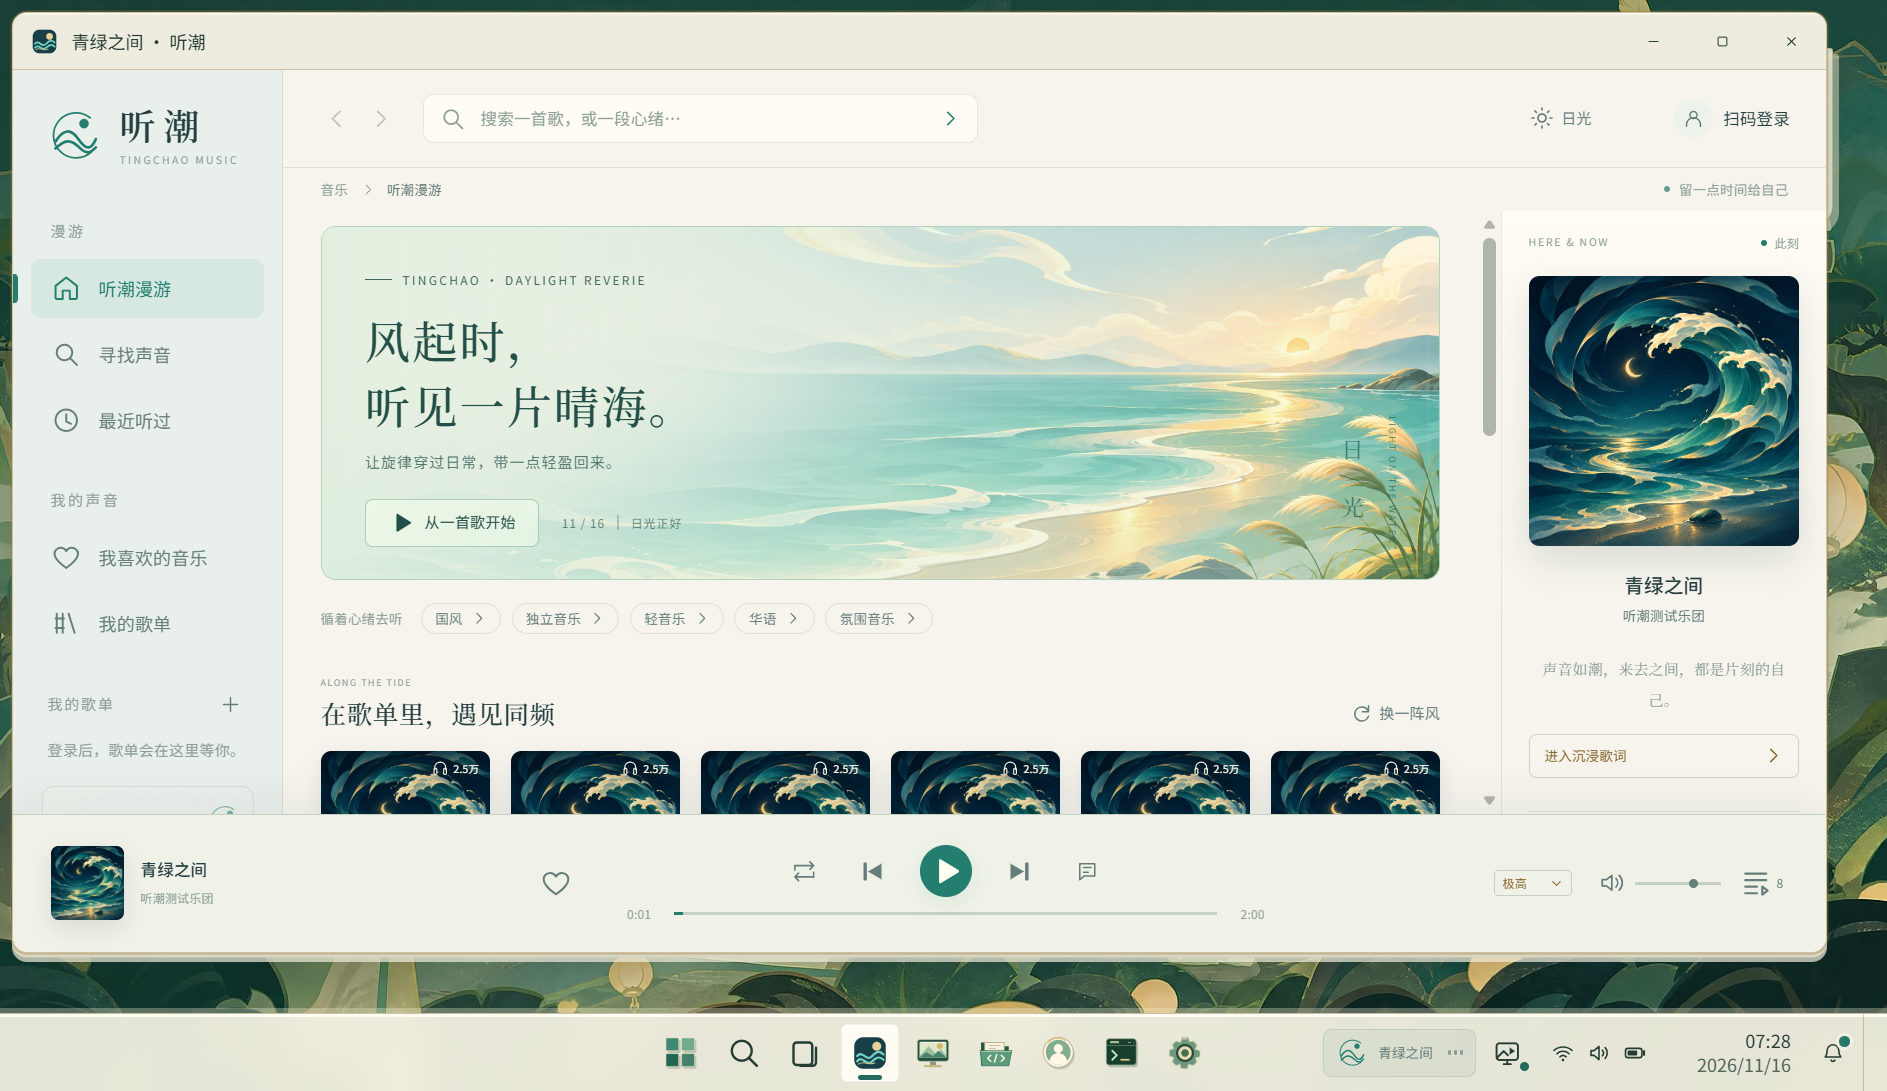
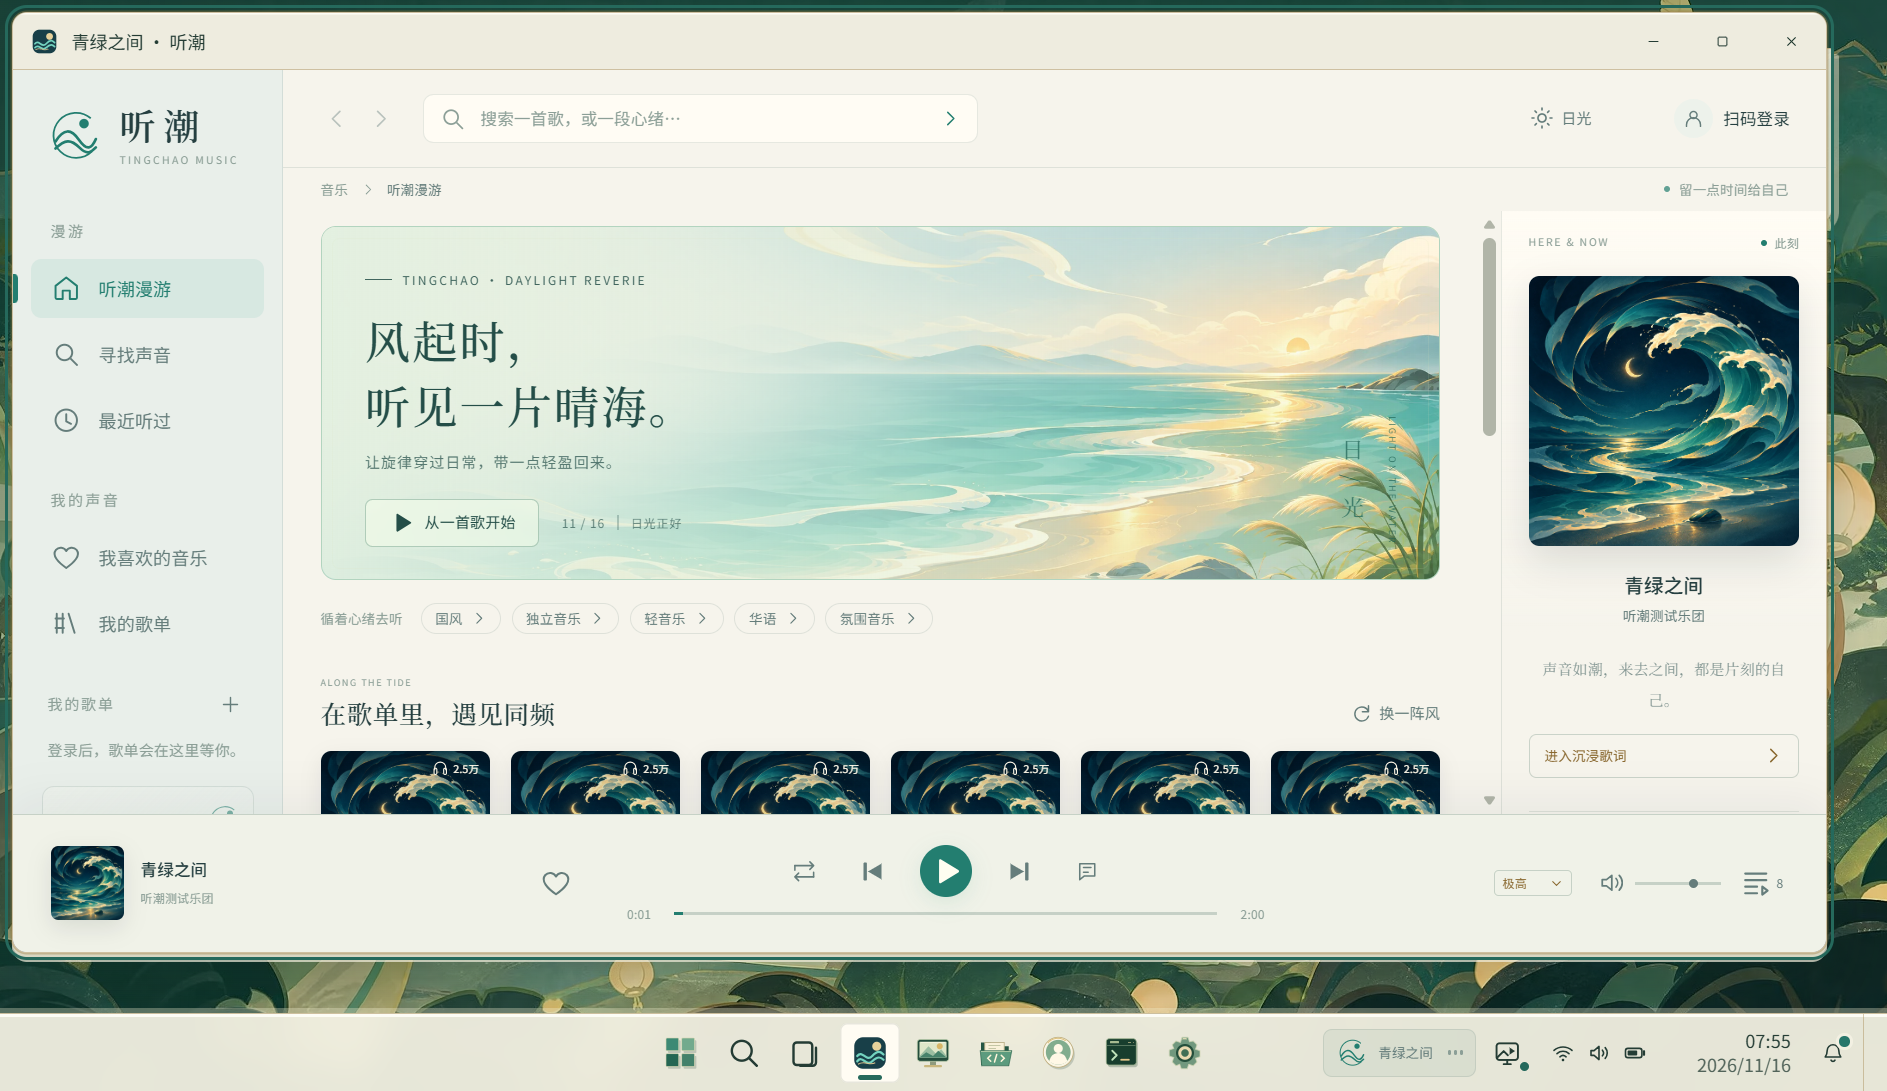
fix(music): await gateway reload and center lock controls

diff --git a/site/assets/css/music-host.css b/site/assets/css/music-host.css
@@ -2,7 +2,7 @@
 .tingchao-host{height:100%;min-height:0;isolation:isolate;container-type:inline-size}
 .music-loading{height:100%;display:flex;align-items:center;justify-content:center;flex-direction:column;gap:8px;color:#f3f0e7;background:#101e2c;font-family:var(--font-ui)}
 .music-loading>span{font:500 34px var(--font-display);letter-spacing:.24em;color:#d5bd86}.music-loading p{font-size:13px;opacity:.65}
-.lock-music-controls{position:absolute;z-index:4;left:50%;top:48%;transform:translate(-50%,-50%);width:min(430px,calc(100% - 36px));pointer-events:auto;touch-action:manipulation}
+.lock-music-controls{position:absolute;z-index:4;left:50%;top:48%;transform:translate(-50%,-50%);width:min(430px,calc(100% - 36px));display:flex;justify-content:center;pointer-events:auto;touch-action:manipulation}
 .music-desktop-surface{position:absolute;inset:0;z-index:1050;pointer-events:none}.music-desktop-surface>*,.music-desktop-surface button{pointer-events:auto}
 .music-tray{display:flex;align-items:center;max-width:170px;min-width:32px}
 .music-desktop-surface[hidden],.lock-music-controls[hidden],.music-tray[hidden]{display:none!important}

diff --git a/docs/tingchao/PROGRESS.md b/docs/tingchao/PROGRESS.md
@@ -24,11 +24,13 @@
 
 07:20 集成验收完成：120 项自动测试、47 项 OpenCLI 浏览器断言和真实游客 SDK smoke 12 项通过。两轮日光／夜航、1920/1366/800/390 容器画面已检查，手机侧栏中间帧遮挡和按钮溢出已修复。实际官方游客歌曲已在 Chrome 解码、推进、关窗续播，个人写入仅使用隔离账号。沉浸采样平均 16.67ms，P95 16.9ms；最小化进度冻结而音频继续。最终版本化公开构建再次通过播放和锁屏生命周期验收。
 
-- 最终主站资源版本：f50951a175876232dd7ef5d8，123 个当前命名空间资源；公开目录不含源码映射或服务私有数据。原生完整入口在 Rollup 后额外压缩，保留第三方许可；开发监听和正式构建共用暂存步骤，最终压缩版本再次通过实际浏览器生命周期与启动器回归。
+- 最终主站资源版本：c42cb87995f41571115b136b，123 个当前命名空间资源；公开目录不含源码映射或服务私有数据。原生完整入口在 Rollup 后额外压缩，JS gzip 162,737 字节并保留第三方许可；开发监听和正式构建共用暂存步骤，最终压缩版本再次通过实际浏览器生命周期与启动器回归。
 - 详见 QA-20261116.md 和 qa/tingchao/report.json。
 - 只读线上 baseline 已保存 .release-local/music-baseline.json：home 20261109T165733Z；auth activity-monitor-20261029T154940Z-f320dadbb9。53 个主页文件和 3 个 auth 文件与隔离基线归一化全匹配，没有撤销其他线上业务改动。
 - 本地源码已按组件/模块整理排版。主站桌面壳继续零依赖，听潮框架只在独立工程与按需模块中。
 
 剩余：提交已审查隔离变更、生成并校验发布包、树莓派事务发布及发布/回滚准备记录、公网及相邻服务验证。真实账号扫码确认与个人歌单写入由用户在听潮中操作验收。原工作区其他项目改动尚未合并或发布。
+
+07:47 首次事务已执行并自动回滚：nginx reload 返回时旧工作进程仍短暂将新音乐路径回退到 HTML（访问日志精确记录音乐 session 自检 HTTP 200），新音乐路由尚未就绪；其他六项自检通过。收据 `rollback-receipt.json` 确认三指针、配置及服务恢复，rollbackErrors 为空。修复为在保持 401 / authentication_required / no-store 原校验条件下等待路由就绪，不放宽权限；发布归档测试 14 项复验通过。另将锁屏媒体卡在宿主容器中精确居中。
 
 产品约定：关窗继续，锁屏保持原状态；锁屏SMTC卡只含当前音乐与播控。扫码按浏览器隔离；首版含歌单创建及曲目增删。无下载/云盘/MV/评论/整张歌单删除。

diff --git a/docs/tingchao/QA-20261116.md b/docs/tingchao/QA-20261116.md
@@ -20,3 +20,5 @@
 真实账号扫码确认和个人歌单写入留给用户在听潮中操作，自动验收使用合成账号。额外运行的既有完整工作区测试 `qa/workspace-api-tests.mjs` 有 2/7 通过，另 5 项在“相邻理韵工程缺少本地 Vite”预检处停止；未为本次音乐任务安装其他应用依赖。
 
 发布前只读比较线上资源与隔离分支基线：53 个主页文件经换行与版本号归一化后全匹配，3 个认证服务文件全匹配。线上原始资源 ID 与 Git 归档构建 ID 的差别来自字节换行，未发现其他业务差异。本次保留原工作区全部未提交内容。
+
+首次线上事务遇到 nginx reload 的旧工作进程短暂回退 HTML，严格自检拒绝该响应并自动恢复全部既有指针和配置。实际回滚收据保留在本目录；就绪探测已补等待，401、业务错误码和不缓存条件不变。锁屏卡同步修正到时钟正下方，另有 `qa/tingchao/lock-layout.json` 的中心偏移测量与最后实图。
